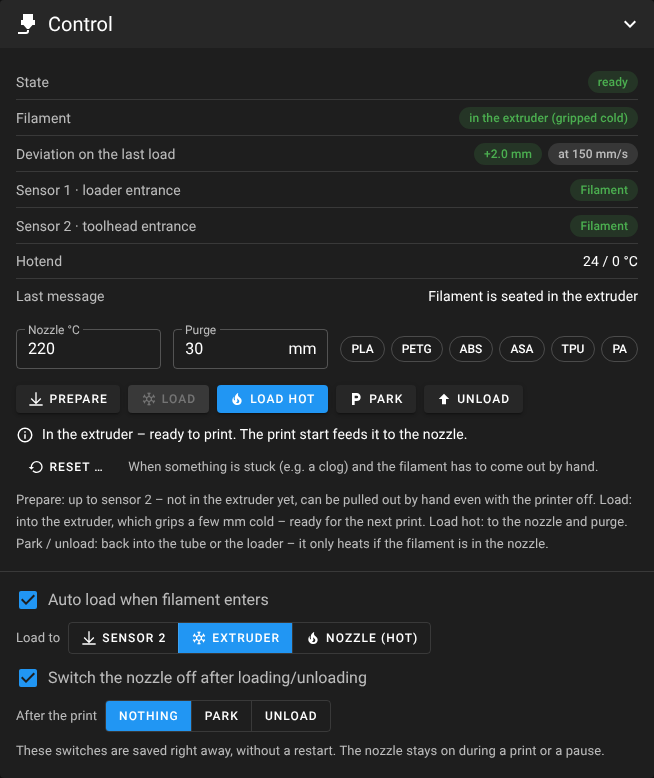
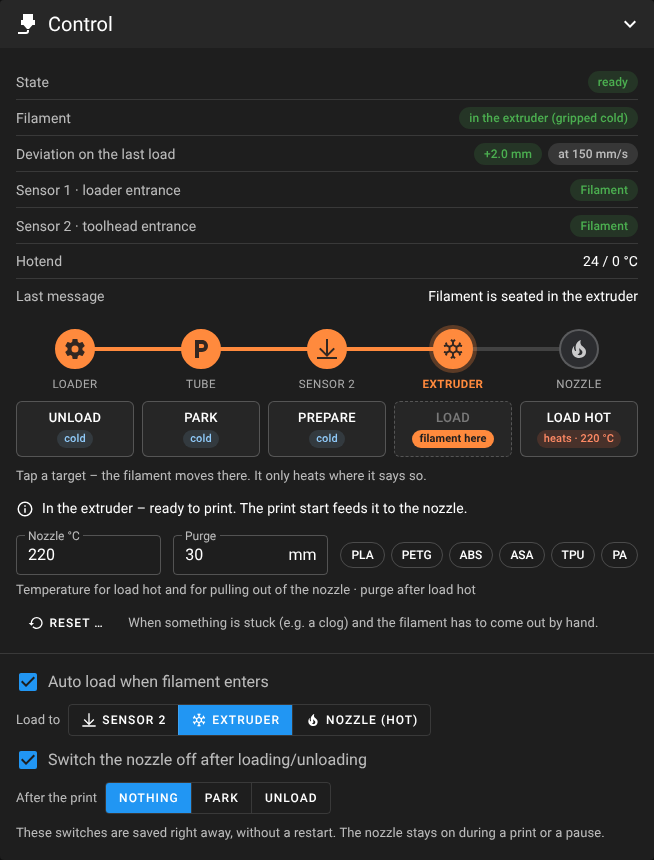
Control: the five buttons as targets along the filament path
Loader - tube - sensor 2 - extruder - nozzle as stations on a track that
fills up to where the filament is (dashed when the position is a guess,
animated while moving). Under each station its action, with a badge:
'filament here', 'cold', 'heats - 220 C' (only where it really heats,
same rule as the macros) or 'running'. Tooltips explain each target or
why it is not available. Vertical layout on phones. README screenshots.

Claude-Session: https://claude.ai/code/session_01VDtPnBwXqHuwKHs624Dn1u

Changed region(s): [[0.0306, 0.0925, 0.9786, 0.9871], [0.0306, 0.0, 0.1529, 0.0617]]

diff --git a/web/index.html b/web/index.html
@@ -87,6 +87,63 @@ html.theme--light .kv td { border-bottom-color: rgba(0,0,0,.12); }
 .step-row { cursor: pointer; }
 .step-ic.auto { cursor: default; }
 
+/* main controls: the five targets along the filament path */
+.stn-track { position: relative; display: grid; grid-template-columns: repeat(5, minmax(0, 1fr)); gap: 8px; --frac: 0;
+  --fil: #ff8a3d; --stn-dot: #2c2d30; --stn-line: rgba(255,255,255,.16); --stn-edge: rgba(255,255,255,.22); --stn-bg: rgba(255,255,255,.04); }
+html.theme--light .stn-track { --stn-dot: #eceff1; --stn-line: rgba(0,0,0,.14); --stn-edge: rgba(0,0,0,.2); --stn-bg: rgba(0,0,0,.025); }
+.stn-rail { position: absolute; top: 18px; height: 4px; border-radius: 2px; background: var(--stn-line); pointer-events: none;
+  left: calc((100% - 32px) / 10); right: calc((100% - 32px) / 10); }
+.stn-fill { position: absolute; left: 0; top: 0; bottom: 0; width: calc(var(--frac) * 100%); border-radius: inherit; background: var(--fil); transition: width .5s ease, height .5s ease; }
+.stn-track.empty .stn-fill { display: none; }
+.stn-track.unsure .stn-fill { background: repeating-linear-gradient(90deg, var(--fil) 0 8px, transparent 8px 13px); }
+.stn-track.moving .stn-fill { background-image: repeating-linear-gradient(-45deg, rgba(0,0,0,.28) 0 5px, transparent 5px 10px); background-size: 28px 28px; animation: stn-flow .8s linear infinite; }
+.stn-track.moving.back .stn-fill { animation-direction: reverse; }
+@keyframes stn-flow { to { background-position: 28px 0; } }
+.stn { position: relative; z-index: 1; display: flex; flex-direction: column; align-items: center; gap: 4px; min-width: 0; }
+.stn-dot { width: 40px; height: 40px; border-radius: 50%; display: grid; place-items: center; background: var(--stn-dot); border: 2px solid var(--stn-edge);
+  transition: background .3s, border-color .3s, box-shadow .3s; }
+.stn-dot .v-icon { font-size: 20px; opacity: .75; }
+.stn.reached .stn-dot { background: var(--fil); border-color: var(--fil); }
+.stn.reached .stn-dot .v-icon { color: #1d1d1f !important; opacity: .9; }
+.stn.here .stn-dot { box-shadow: 0 0 0 4px rgba(255,138,61,.28); }
+.stn.run .stn-dot { animation: stn-pulse 1.1s ease-in-out infinite; border-color: var(--v-primary-base); }
+@keyframes stn-pulse { 50% { box-shadow: 0 0 0 7px rgba(33,150,243,.25); } }
+.stn-place { font-size: .72rem; letter-spacing: .04em; text-transform: uppercase; opacity: .62; white-space: nowrap; overflow: hidden; text-overflow: ellipsis; max-width: 100%; }
+.stn.here .stn-place { opacity: 1; color: var(--fil); font-weight: 600; }
+.stn-btn { width: 100%; min-height: 56px; margin-top: 2px; padding: 7px 4px; display: flex; flex-direction: column; align-items: center; justify-content: center; gap: 5px;
+  border: 1px solid var(--stn-edge); border-radius: 6px; background: var(--stn-bg); color: inherit; font: 500 .8125rem Roboto, sans-serif; letter-spacing: .03em;
+  text-transform: uppercase; cursor: pointer; transition: background .15s, border-color .15s, box-shadow .15s; }
+.stn-btn:hover:not(:disabled) { border-color: var(--v-primary-base); background: rgba(33,150,243,.12); }
+.stn-btn:focus-visible { outline: 2px solid var(--v-primary-base); outline-offset: 2px; }
+.stn-btn:disabled { cursor: default; }
+.stn-btn:disabled .stn-act { opacity: .38; }
+.stn-btn:disabled:not(:hover) { border-style: dashed; }
+.stn.run .stn-btn { border-color: var(--v-primary-base); box-shadow: 0 0 0 1px var(--v-primary-base) inset; }
+.stn.run .stn-btn .stn-act { opacity: 1; }
+.stn-act { line-height: 1.2; }
+.stn-chip { display: inline-block; font-size: .6875rem; font-weight: 500; letter-spacing: .01em; text-transform: none; line-height: 18px; padding: 0 7px; border-radius: 9px; white-space: nowrap; }
+.stn-chip.cold { color: #90caf9; background: rgba(144,202,249,.12); }
+.stn-chip.hot { color: #ff8a65; background: rgba(255,112,67,.16); }
+.stn-chip.here { color: #1d1d1f; background: var(--fil); font-weight: 600; }
+.stn-chip.unsure { color: #ffb300; background: rgba(255,179,0,.15); }
+.stn-chip.run { color: #fff; background: var(--v-primary-base); }
+html.theme--light .stn-chip.cold { color: #1565c0; background: rgba(21,101,192,.1); }
+html.theme--light .stn-chip.hot { color: #d84315; background: rgba(216,67,21,.1); }
+html.theme--light .stn-chip.unsure { color: #b26a00; }
+.stn-btn:disabled .stn-chip:not(.here):not(.run):not(.unsure) { opacity: .5; }
+@media (max-width: 600px) {
+  .stn-track { grid-template-columns: 1fr; gap: 8px; }
+  .stn-rail { left: 18px; right: auto; width: 4px; height: auto; top: 28px; bottom: 28px; }
+  .stn-fill { width: auto; right: 0; bottom: auto; height: calc(var(--frac) * 100%); }
+  .stn-track.unsure .stn-fill { background: repeating-linear-gradient(180deg, var(--fil) 0 8px, transparent 8px 13px); }
+  .stn { flex-direction: row; gap: 12px; min-height: 56px; }
+  .stn-place { width: 66px; flex: none; text-align: left; }
+  .stn-btn { flex: 1; flex-direction: row; flex-wrap: wrap; justify-content: space-between; gap: 4px 8px; min-height: 48px; margin-top: 0; padding: 6px 10px; letter-spacing: .02em; }
+  .stn-act { white-space: nowrap; }
+  /* long status chips in the table: wrap instead of overflowing */
+  .kv .chip { height: auto; min-height: 22px; line-height: 1.3; padding: 2px 10px; white-space: normal; }
+}
+
 /* filament path graphic */
 #fpath { width: 100%; max-width: 560px; display: block; margin: 0 auto; overflow: visible;
   --fp-black: #222326; --fp-blk2: #2d2e32; --fp-edge: rgba(255,255,255,.2); --fp-acc: #d42a2a; --fp-acc-edge: rgba(0,0,0,.35);
@@ -293,21 +350,23 @@ body.no-mainsail .v-btn { background: #333; color: #fff; border: 0; border-radiu
                   <tr><td>Hotend</td><td id="s-temp">–</td></tr>
                   <tr><td>Letzte Meldung</td><td id="s-msg">–</td></tr>
                 </table>
+                <div class="stn-track mt-4" id="stn-track" role="group" aria-label="Filament bewegen">
+                  <div class="stn-rail"><div class="stn-fill"></div></div>
+                  <div class="stn"><span class="stn-dot"><span data-icon="mdiCog"></span></span><span class="stn-place">Loader</span><button type="button" class="stn-btn" id="unload"><span class="stn-act">Entladen</span><span class="stn-badge"></span></button></div>
+                  <div class="stn"><span class="stn-dot"><span data-icon="mdiParking"></span></span><span class="stn-place">Schlauch</span><button type="button" class="stn-btn" id="park"><span class="stn-act">Parken</span><span class="stn-badge"></span></button></div>
+                  <div class="stn"><span class="stn-dot"><span data-icon="mdiArrowCollapseDown"></span></span><span class="stn-place">Sensor 2</span><button type="button" class="stn-btn" id="prepare"><span class="stn-act">Vorbereiten</span><span class="stn-badge"></span></button></div>
+                  <div class="stn"><span class="stn-dot"><span data-icon="mdiSnowflake"></span></span><span class="stn-place">Extruder</span><button type="button" class="stn-btn" id="load-cold" data-g="FILAMENT_LOAD_COLD"><span class="stn-act">Laden</span><span class="stn-badge"></span></button></div>
+                  <div class="stn"><span class="stn-dot"><span data-icon="mdiFire"></span></span><span class="stn-place">Düse</span><button type="button" class="stn-btn" id="load-hot"><span class="stn-act">Heiß laden</span><span class="stn-badge"></span></button></div>
+                </div>
+                <div class="small muted mt-2 stn-legend">Ziel antippen – das Filament fährt dorthin. Geheizt wird nur, wo es dabeisteht.</div>
+                <div class="op-hint mt-3" id="op-hint"></div>
                 <div class="d-flex align-center flex-wrap mt-4" style="gap:10px 12px">
                   <x-field label="Düse °C" id="temp" cls="temp-in" type="number" min="0" max="320" step="5" value="220" style="width:110px"></x-field>
                   <x-field label="Ausspülen" id="purge" type="number" min="0" max="300" step="5" suffix="mm" style="width:120px"></x-field>
                   <div class="chips" id="mat-chips"></div>
                 </div>
-                <div class="btn-row mt-4">
-                  <x-btn id="prepare" act icon="mdiArrowCollapseDown">Vorbereiten</x-btn>
-                  <x-btn id="load-cold" g="FILAMENT_LOAD_COLD" act color="primary" icon="mdiSnowflake">Laden</x-btn>
-                  <x-btn id="load-hot" act color="primary" icon="mdiFire">Heiß laden</x-btn>
-                  <x-btn id="park" act icon="mdiParking">Parken</x-btn>
-                  <x-btn id="unload" act icon="mdiArrowUpBold">Entladen</x-btn>
-                </div>
-                <div class="op-hint mt-3" id="op-hint"></div>
+                <div class="small muted mt-1">Temperatur für Heiß laden und für das Herausziehen aus der Düse · Ausspülen nach dem Heiß laden</div>
                 <div class="d-flex align-center flex-wrap mt-2" style="gap:4px 12px"><x-btn id="reset" variant="text" icon="mdiRestore">Zurücksetzen …</x-btn><span class="small muted">Wenn etwas hängt (z. B. Clog) und das Filament von Hand heraus muss.</span></div>
-                <div class="small muted mt-2">Vorbereiten: bis Sensor 2 – noch nicht im Extruder, lässt sich auch ausgeschaltet von Hand herausziehen. Laden: bis in den Extruder, der greift kalt ein paar Millimeter mit – bereit für den nächsten Druck. Heiß laden: bis zur Düse und ausspülen. Parken / Entladen: zurück in den Schlauch bzw. in den Loader – geheizt wird nur, wenn das Filament in der Düse ist.</div>
               </div>
               <hr role="separator" class="v-divider theme--dark">
               <div class="v-card__text">
@@ -849,6 +908,17 @@ const T_EN = {
   "Modul autoloader_sync fehlt – ./install.sh": "module autoloader_sync missing – ./install.sh",
   "aktiv – greift kalt {n} mm": "active – cold grip {n} mm", "aktiv": "active",
   "So geht es weiter:": "How to continue:",
+  // station track
+  "Schlauch": "Tube",
+  "Filament bewegen": "Move the filament",
+  "Ziel antippen – das Filament fährt dorthin. Geheizt wird nur, wo es dabeisteht.": "Tap a target – the filament moves there. It only heats where it says so.",
+  "Temperatur für Heiß laden und für das Herausziehen aus der Düse · Ausspülen nach dem Heiß laden": "Temperature for load hot and for pulling out of the nozzle · purge after load hot",
+  "Zurück bis in den Loader (unload_hold). Geheizt wird nur, wenn das Filament in der Düse ist.": "Back into the loader (unload_hold). Heats only if the filament is in the nozzle.",
+  "Knapp hinter Sensor 2 in den Schlauch – das nächste Laden geht schnell. Geheizt wird nur, wenn das Filament in der Düse ist.": "Into the tube just behind sensor 2 – the next load is quick. Heats only if the filament is in the nozzle.",
+  "Bis Sensor 2 – noch nicht im Extruder, lässt sich auch ausgeschaltet von Hand herausziehen.": "Up to sensor 2 – not in the extruder yet, can be pulled out by hand even when the printer is off.",
+  "Bis in den Extruder, der greift kalt ein paar Millimeter mit – bereit für den nächsten Druck. Die Düse bleibt aus.": "Into the extruder, which grips a few millimetres cold – ready for the next print. The nozzle stays off.",
+  "Heizt auf, fördert bis zur Düse und spült aus.": "Heats up, feeds to the nozzle and purges.",
+  "läuft …": "running …", "Filament hier": "filament here", "vermutlich hier": "probably here", "heizt · {n} °C": "heats · {n} °C", "kalt": "cold",
   // Console
   "G-Code": "G-Code", "z. B. LOADER_STATUS": "e.g. LOADER_STATUS",
 };
@@ -1395,6 +1465,48 @@ function opAvail() {
     "unload": none ? "Kein Filament im Loader" : inLoader ? "Filament steckt schon im Loader" : needSync("unload") ? "Braucht das Klipper-Modul autoloader_sync (Hinweis oben)" : "",
   };
 }
+/* the five targets along the filament path (left = loader, right = nozzle) */
+const STN = [
+  ["unload", "Zurück bis in den Loader (unload_hold). Geheizt wird nur, wenn das Filament in der Düse ist."],
+  ["park", "Knapp hinter Sensor 2 in den Schlauch – das nächste Laden geht schnell. Geheizt wird nur, wenn das Filament in der Düse ist."],
+  ["prepare", "Bis Sensor 2 – noch nicht im Extruder, lässt sich auch ausgeschaltet von Hand herausziehen."],
+  ["load-cold", "Bis in den Extruder, der greift kalt ein paar Millimeter mit – bereit für den nächsten Druck. Die Düse bleibt aus."],
+  ["load-hot", "Heizt auf, fördert bis zur Düse und spült aus."],
+];
+const STN_OP = { unload: 0, park: 1, prepare: 2, load_cold: 3, load: 4 };
+/* station of the filament tip: { i: -1…4, sure } */
+function stnIndex() {
+  const p = ls().pos || "unknown", { s1, s2 } = sens();
+  const m = { loader: 0, tube: 1, sensor2: 2, gears: 3, nozzle: 4 };
+  if (p === "none") return { i: s1 ? 0 : -1, sure: true };
+  if (p in m) return { i: m[p], sure: s2 === (m[p] >= 2) || !hasTool };
+  return s2 ? { i: 2, sure: false } : s1 ? { i: 0, sure: false } : { i: -1, sure: true };
+}
+function drawTrack() {
+  const tr = $("stn-track");
+  if (!tr) return;
+  const { i, sure } = stnIndex(), st = ls(), run = opRunning();
+  const target = run ? STN_OP[st.op] : undefined;
+  tr.style.setProperty("--frac", String(Math.max(0, i) / 4));
+  tr.classList.toggle("empty", i < 0);
+  tr.classList.toggle("unsure", !sure);
+  tr.classList.toggle("moving", target !== undefined);
+  tr.classList.toggle("back", target !== undefined && target < i);
+  const heat = inNozzle(), tv = parseFloat(($("temp") || {}).value), temp = isFinite(tv) && tv > 0 ? Math.round(tv) : 220;
+  STN.forEach(([id], k) => {
+    const b = $(id), stn = b.closest(".stn");
+    stn.classList.toggle("reached", i >= 0 && k <= i);
+    stn.classList.toggle("here", k === i);
+    stn.classList.toggle("run", k === target);
+    let txt, cls;
+    if (k === target) [txt, cls] = [t("läuft …"), "run"];
+    else if (k === i) [txt, cls] = [sure ? t("Filament hier") : t("vermutlich hier"), sure ? "here" : "unsure"];
+    else if (id === "load-hot" || (["unload", "park", "prepare"].includes(id) && heat)) [txt, cls] = [t("heizt · {n} °C", { n: temp }), "hot"];
+    else [txt, cls] = [t("kalt"), "cold"];
+    const bd = b.querySelector(".stn-badge"), h = `<span class="stn-chip ${cls}">${esc(txt)}</span>`;
+    if (bd.dataset.h !== h) { bd.innerHTML = h; bd.dataset.h = h; }
+  });
+}
 /* one line: where the filament is and what makes sense next */
 function opHint() {
   const st = ls(), v = lv(), p = st.pos || "unknown", { s1, s2 } = sens();
@@ -1575,11 +1687,12 @@ function draw() {
   const lockOps = !ready || (pr && !isPaused()) || busy > 0 || opRunning();
   document.querySelectorAll(".err-act").forEach((b) => setDis(b, lockOps));
   const why = opAvail();
-  for (const id of ["prepare", "load-cold", "load-hot", "park", "unload"]) {
+  for (const [id, help] of STN) {
     const reason = !hasTool ? "Sensor 2 ist nicht aktiv" : why[id];
     setDis($(id), lockOps || !!reason);
-    $(id).title = reason ? t(reason) : "";
+    $(id).title = reason ? t(reason) : t(help);
   }
+  drawTrack();
   const hint = ready && installed ? opHint() : "";
   const hintHTML = hint ? icon("mdiInformationOutline", "", 18) + `<span>${esc(t(hint[0], hint[1]))}</span>` : "";
   if ($("op-hint").dataset.h !== hintHTML) { $("op-hint").innerHTML = hintHTML; $("op-hint").dataset.h = hintHTML; }
